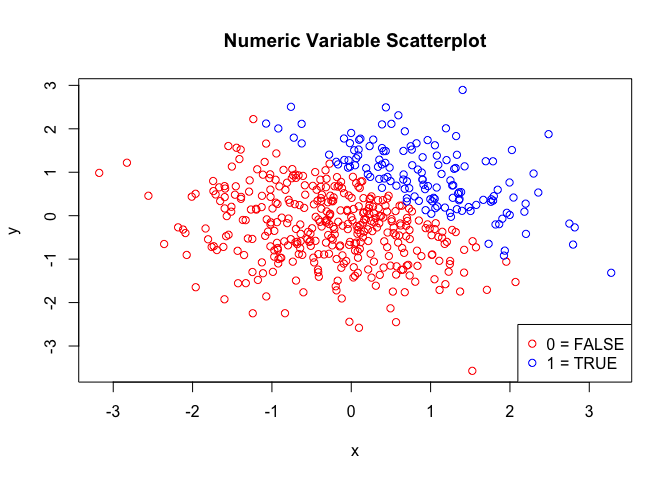
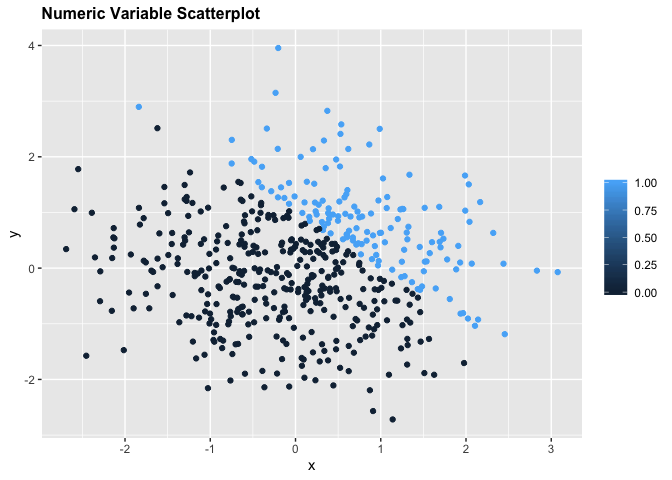
Use ggplot function instead of using regular R-plot.

diff --git a/p8105_hw1_dz2426.md b/p8105_hw1_dz2426.md
@@ -48,8 +48,8 @@ mean_char_vec = mean(pull(df_1, char_vec))
 mean_fac_vec = mean(pull(df_1, fac_vec))
 ```
 
-Comment 1: <br /> The mean of the random sample is 0.01. <br /> The mean
-of the logic vector is 0.62. <br /> The mean of the character vector is
+Comment 1: <br /> The mean of the random sample is 0.36. <br /> The mean
+of the logic vector is 0.88. <br /> The mean of the character vector is
 NA. <br /> The mean of the factor vector is NA. <br />
 
 ``` r
@@ -77,8 +77,8 @@ Here is the second code
 as.numeric(pull(df_1, log_vec)) * pull(df_1, random_samp)
 ```
 
-    ## [1] 0.5804234 0.0000000 0.0000000 0.7803462 0.4662752 0.3531446 0.0000000
-    ## [8] 0.3597381
+    ## [1] 0.38537827 0.30223278 0.03772192 0.19149636 0.00000000 0.30213946
+    ## [7] 0.41325817 1.72194033
 
 ``` r
 as.factor(pull(df_1, log_vec)) * pull(df_1, random_samp)
@@ -90,8 +90,8 @@ as.factor(pull(df_1, log_vec)) * pull(df_1, random_samp)
 as.numeric(as.factor(pull(df_1, log_vec))) * pull(df_1, random_samp)
 ```
 
-    ## [1]  1.1608467 -1.9550914 -0.2991970  1.5606923  0.9325505  0.7062892
-    ## [7] -0.1879899  0.7194761
+    ## [1]  0.77075654  0.60446556  0.07544383  0.38299273 -0.45614256  0.60427893
+    ## [7]  0.82651634  3.44388066
 
 # Problem 2
 
@@ -119,9 +119,9 @@ prop_case = mean(pull(df_2, log_vec_2))
 ```
 
 Description of data frame: <br /> The size of the data set is 500 and 5.
-<br /> The mean, median and standard deviation of x are 0.06, 0.07 and
+<br /> The mean, median and standard deviation of x are 0.04, 0.11 and
 1.02, respectively. <br /> The proportion of cases for which x+y\>1 is
-0.27.
+0.29.
 
 ## Section 2
 
@@ -129,12 +129,13 @@ Below are three code chunks for the three yx scatterplots including
 logical, numerical and factor variables, respectively.
 
 ``` r
-plot_one = with(df_2, plot(x, y, xlab = "x", ylab = "y", 
-                           main = "Logical Variable Scatterplot", type = "n"))
-with(subset(df_2, log_vec_2 == 'FALSE'), points(x, y, col = 'red'))        
-with(subset(df_2, log_vec_2 == 'TRUE'), points(x, y, col = 'blue'))
-legend("bottomright", pch = 1, col = c("red","blue"), 
-       legend = c("FALSE","TRUE"))
+ggplot(df_2, aes(x = x, y = y, color = log_vec_2)) +
+  geom_point() +
+  xlab("x") +
+  ylab("y") +
+  labs(title = "Logical Variable Scatterplot") +
+  theme(legend.position = "right", legend.title = element_blank(),
+        plot.title = element_text(color = "black", size = 12, face = "bold"))
 ```
 
 ![](p8105_hw1_dz2426_files/figure-gfm/yx_Logical_scatterplot-1.png)<!-- -->
@@ -146,23 +147,25 @@ ggsave("plot_one.png")
     ## Saving 7 x 5 in image
 
 ``` r
-plot_two = with(df_2, plot(x, y, xlab = "x", ylab = "y", 
-                           main = "Numeric Variable Scatterplot", type = "n"))
-with(subset(df_2, num_vec_2 == '0'), points(x, y, col = 'red'))        
-with(subset(df_2, num_vec_2 == '1'), points(x, y, col = 'blue'))
-legend("bottomright", pch = 1, col = c("red","blue"), 
-       legend = c("0 = FALSE","1 = TRUE"))
+ggplot(df_2, aes(x = x, y = y, color = num_vec_2)) +
+  geom_point() +
+  xlab("x") +
+  ylab("y") +
+  labs(title = "Numeric Variable Scatterplot") +
+  theme(legend.position = "right", legend.title = element_blank(), 
+        plot.title = element_text(color = "black", size = 12, face = "bold"))
 ```
 
 ![](p8105_hw1_dz2426_files/figure-gfm/yx_numeric_scatterplot-1.png)<!-- -->
 
 ``` r
-plot_three = with(df_2, plot(x, y, xlab = "x", ylab = "y", 
-                             main = "Factor Variable Scatterplot", type = "n"))
-with(subset(df_2, fac_vec_2 == 'FALSE'), points(x, y, col = 'red'))        
-with(subset(df_2, fac_vec_2 == 'TRUE'), points(x, y, col = 'blue'))
-legend("bottomright", pch = 1, col = c("red","blue"), 
-       legend = c("level 1 = FALSE","level 2 = TRUE"))
+ggplot(df_2, aes(x = x, y = y, color = fac_vec_2)) +
+  geom_point() +
+  xlab("x") +
+  ylab("y") +
+  labs(title = "Factor Variable Scatterplot") +
+  theme(legend.position = "right", legend.title = element_blank(),
+        plot.title = element_text(color = "black", size = 12, face = "bold"))
 ```
 
 ![](p8105_hw1_dz2426_files/figure-gfm/yx_factor_scatterplot-1.png)<!-- -->
